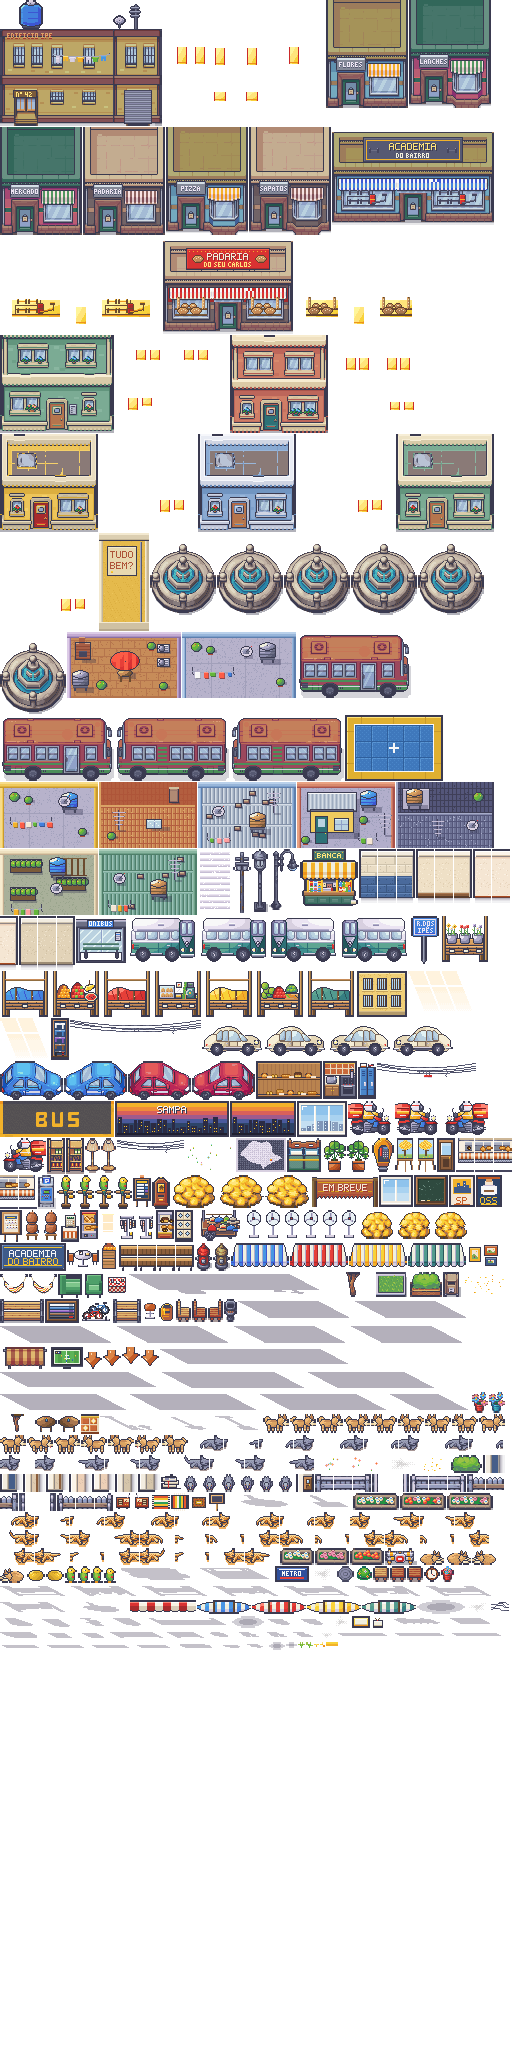
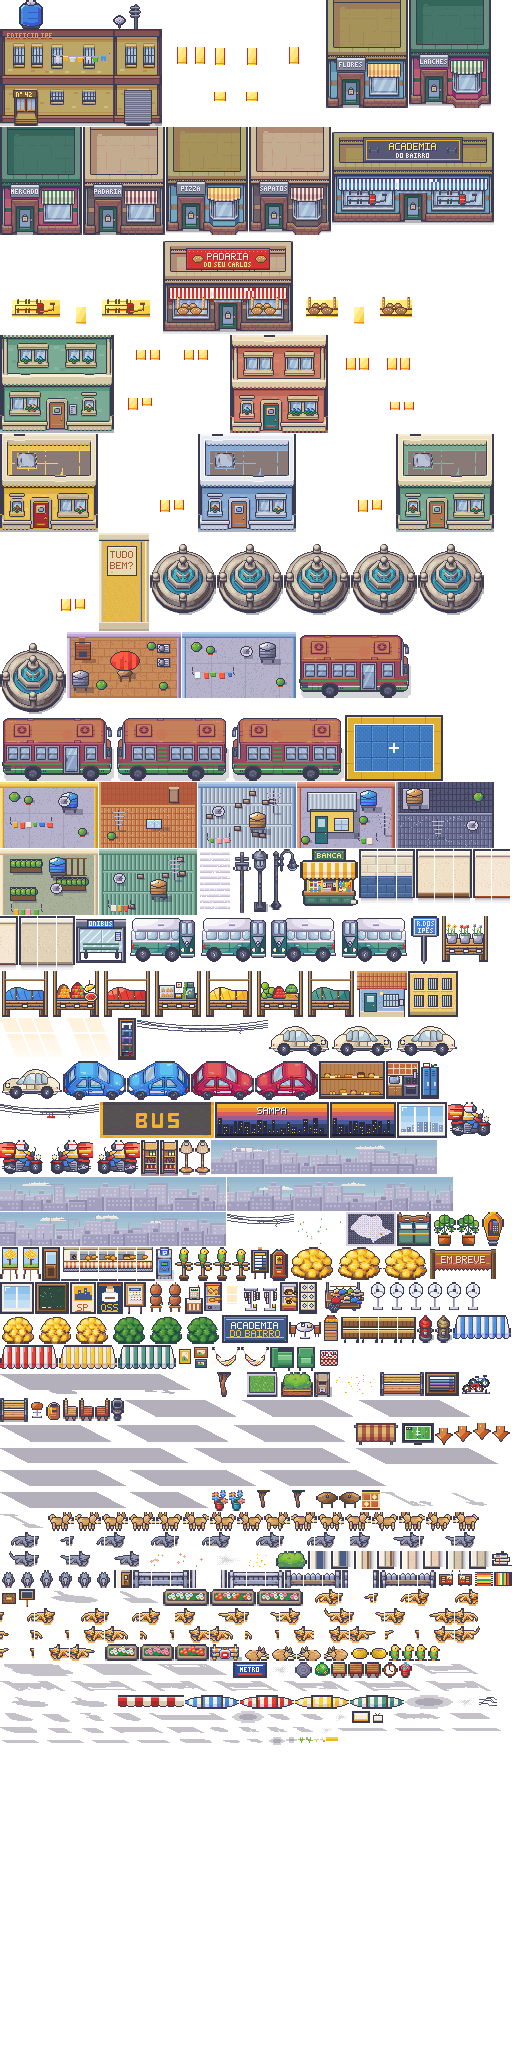
art4: west block (mango tree, edicula), sky backdrop and top margin for the Edificio rooftop

Changed region(s): [[0.0, 0.4688, 1.0, 0.875]]

diff --git a/apps/client/src/render/pixel/WorldScene.ts b/apps/client/src/render/pixel/WorldScene.ts
@@ -390,6 +390,9 @@ export class WorldScene extends Phaser.Scene {
       if (pd) this.reg(this.add.image(Math.round(a.wx) + 3, Math.round(a.wy) - 1, pd.atlas, pd.frame)).setOrigin(0.5, 0.5).setDepth(-4900);
     }
 
+    // ---- sky and far skyline in the top margin of an open-air map
+    if (def.outdoor) this.buildBackdrop(def);
+
     // ---- ground dressing and wires of an open-air map
     this.buildScenery(def);
 
@@ -543,6 +546,14 @@ export class WorldScene extends Phaser.Scene {
   }
 
   /** Ground decals (crosswalks, mosaic, flowers, tufts, grime) and the overhead wires of an open-air map. */
+  /** The strip of sky and distant buildings above the north row (`backdrop/sky_0..3`, 14 tiles each); the facades hide their feet. */
+  private buildBackdrop(def: RoomDef): void {
+    for (let i = 0; i * 14 < def.cols; i++) {
+      const sd = this.m.sprites[`backdrop/sky_${i % 4}`];
+      if (sd) this.reg(this.add.image(i * 14 * T, 0, sd.atlas, sd.frame)).setOrigin(0, 1).setDepth(-9500);
+    }
+  }
+
   private buildScenery(def: RoomDef): void {
     const sc = sceneryFor(def, (k) => !!this.m.sprites[k]);
     if (!sc) return;

diff --git a/apps/client/src/render/pixel/roomLayout.ts b/apps/client/src/render/pixel/roomLayout.ts
@@ -87,9 +87,12 @@ export function northFacades(room: RoomDef, has: (key: string) => boolean): { ke
 export const decorCoveredByFacade = (d: WallDecor, facades: { portal: PortalDef }[]): boolean => d.kind === 'fachada_padaria' && facades.some((f) => f.portal.x >= d.from && f.portal.x < d.to);
 
 /** Bounds the camera may show: the room plus its walls, and any facade that rises above the band. */
+/** Tiles of sky and far skyline above the north row of an open-air map, so the rooftop of the Edifício (28 px above its 6 rows) is whole. */
+export const OUTDOOR_TOP_MARGIN_TILES = 2;
+
 export function roomBounds(room: RoomDef, tallestFacade = 0): Rect {
   // an open-air map is just its tiles: buildings are props inside it, a taller sprite (the rooftop of the Edifício) is cropped by the map top
-  if (room.outdoor) return { x0: 0, y0: 0, x1: room.cols * T, y1: room.rows * T };
+  if (room.outdoor) return { x0: 0, y0: -OUTDOOR_TOP_MARGIN_TILES * T, x1: room.cols * T, y1: room.rows * T };
   return { x0: -WEST_STRIP_TILES * T, y0: -Math.max(NORTH_BAND_TILES * T, tallestFacade), x1: room.cols * T, y1: room.rows * T };
 }
 

diff --git a/packages/shared/src/rooms.ts b/packages/shared/src/rooms.ts
@@ -347,9 +347,11 @@ const vilaIpe: RoomDef = {
     front('casa_oeste', 'casas/terraco_verde', 2, 14, 6, 6),
     P('cerca_oeste', 'cerca', 0, 20, { w: 9, h: 4, art: 'cerca_jardim' }),
     cen('jardim_1', 'props/flor_rosa', 1, 21, 2, 1),
-    cen('jardim_2', 'props/flor_vermelha', 5, 22, 2, 1),
-    cen('jardim_3', 'props/pot_teal', 4, 21),
-    cen('jardim_bici', 'props/bicicletario', 6, 21),
+    cen('jardim_2', 'props/flor_vermelha', 2, 22, 2, 1),
+    cen('jardim_3', 'props/pot_teal', 3, 21),
+    cen('jardim_bici', 'props/bicicletario', 4, 22),
+    cen('edicula', 'props/edicula', 6, 21, 3, 2),
+    cen('manga', 'props/manga', 1, 17, 1, 1, { blocks: true }),
     P('flor_o1', 'sebe', 8, 14, { w: 2, art: 'props/flor_mista' }),
     P('ipe_oeste', 'ipe', 3, 27),
     P('ipe_oeste_2', 'ipe', 8, 24),

diff --git a/apps/client/src/render/pixel/vilaIpe.test.ts b/apps/client/src/render/pixel/vilaIpe.test.ts
@@ -85,8 +85,8 @@ describe('Vila Ipê art coverage', () => {
     for (const id of ['padaria', 'kitnet', 'academia'] as const) expect(sceneryFor(ROOMS[id], has)).toBeNull();
   });
 
-  it('the camera bounds of the open-air map are the map itself', () => {
-    expect(roomBounds(vila, 999)).toEqual({ x0: 0, y0: 0, x1: 56 * T, y1: 40 * T });
+  it('the camera bounds of the open-air map are the map plus its 2 tile sky margin', () => {
+    expect(roomBounds(vila, 999)).toEqual({ x0: 0, y0: -2 * T, x1: 56 * T, y1: 40 * T });
   });
 
   it('an outdoor door has a click box around its door art, at least a tile', () => {
